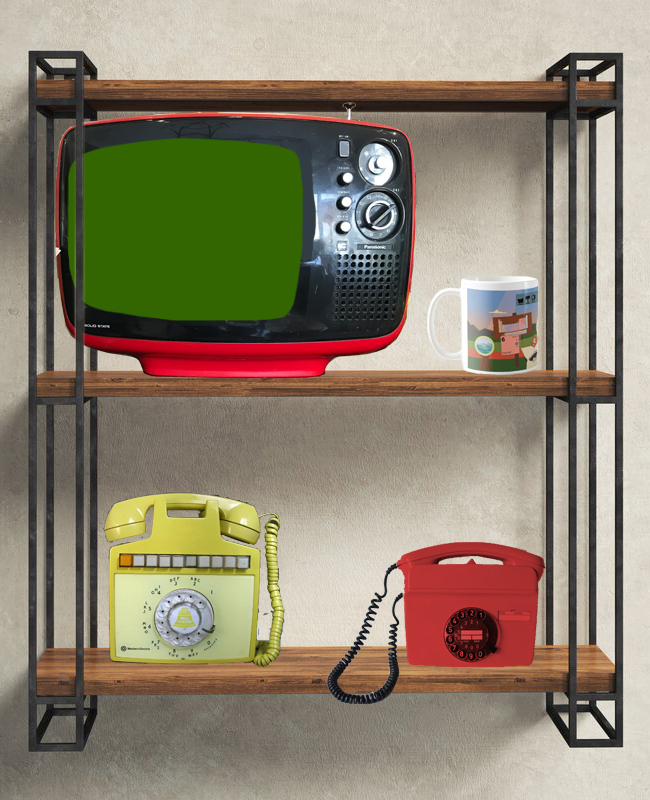
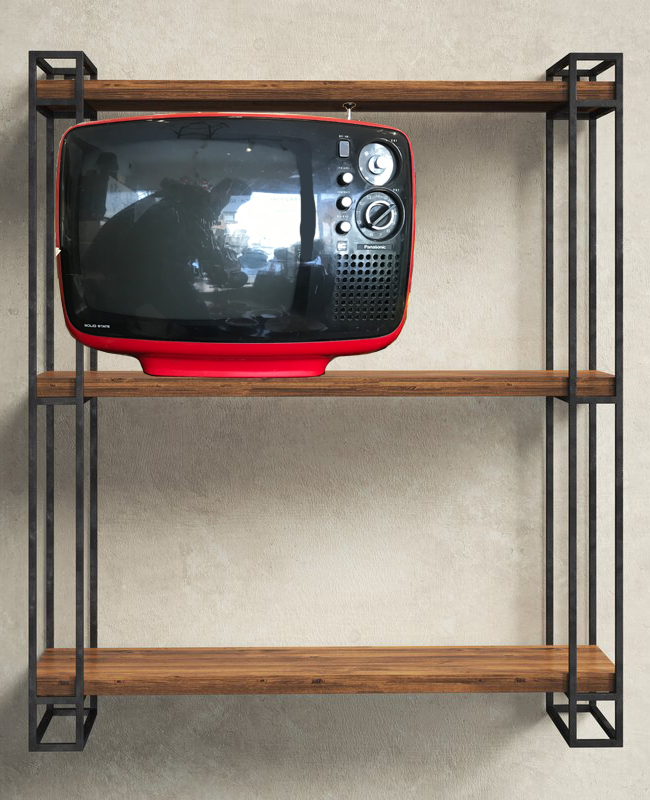
push website build changes

diff --git a/assets/BFTF-Phone/style.css b/assets/BFTF-Phone/style.css
@@ -1,11 +1,11 @@
 body {
   margin: 0;
   width: 100vw;
-  height: calc(100vw*0.63);
+  height: calc(100vw * 0.63);
   display: flex;
   
   
-  background-image: url('assets/phone.png');
+  background-image: url('assets/yellowPhone.png');
   
   background-repeat: no-repeat;
   background-size: contain;
@@ -68,8 +68,8 @@ color: blue; border: dashed blue 0px}
   display: grid;
   grid-template-columns: 12% 12% 12%;
   grid-template-rows: 18% 18% 18% 18%;
-  margin-left: 0 /*move phone*/
-  margin-top: 0;
+  margin-left: -20vw; /*move phone*/
+  margin-top: 5vw;
 
   /*unsures*/
   width: 100%; 
@@ -92,7 +92,7 @@ color: blue; border: dashed blue 0px}
 
 }
 #keypad .key {
-  background-color: transparent;
+  background-color: rgba(255, 255, 240, 0.5);
   box-sizing: border-box;
   position: relative;
   perspective: 800px;
@@ -106,6 +106,7 @@ color: blue; border: dashed blue 0px}
   height: 100%;
   position: relative;
   border: solid green 0px;
+  background-color: rgba(255, 255, 0, 1.0);
 }
 
 
@@ -148,14 +149,16 @@ color: blue; border: dashed blue 0px}
 
 #keypad .key.key-1 .inner {
   background-position: -17px -28px;
-   background-image: url('assets/buttons/1.png');
+   background-image: url('assets/buttons/one.png');
+   
   background-position: center;
   background-repeat: no-repeat;
   background-size: cover; 
+  
 }
 #keypad .key.key-2 .inner {
   background-position: -117px -28px;
-  background-image: url('assets/buttons/2.png');
+  background-image: url('assets/buttons/two.png');
   background-position: center;
   background-repeat: no-repeat;
   background-size: cover; 
@@ -163,56 +166,56 @@ color: blue; border: dashed blue 0px}
 }
 #keypad .key.key-3 .inner {
   background-position: -217px -28px;
-  background-image: url('assets/buttons/3.png');
+  background-image: url('assets/buttons/three.png');
   background-position: center;
   background-repeat: no-repeat;
   background-size: cover; 
 }
 #keypad .key.key-4 .inner {
   background-position: -17px -128px;
-  background-image: url('assets/buttons/4.png');
+  background-image: url('assets/buttons/four.png');
   background-position: center;
   background-repeat: no-repeat;
   background-size: cover; 
 }
 #keypad .key.key-5 .inner {
   background-position: -117px -128px;
-  background-image: url('assets/buttons/5.png');
+  background-image: url('assets/buttons/five.png');
   background-position: center;
   background-repeat: no-repeat;
   background-size: cover; 
 }
 #keypad .key.key-6 .inner {
   background-position: -217px -128px;
-  background-image: url('assets/buttons/6.png');
+  background-image: url('assets/buttons/six.png');
   background-position: center;
   background-repeat: no-repeat;
   background-size: cover; 
 }
 #keypad .key.key-7 .inner {
   background-position: -17px -228px;
-  background-image: url('assets/buttons/7.png');
+  background-image: url('assets/buttons/seven.png');
   background-position: center;
   background-repeat: no-repeat;
   background-size: cover; 
 }
 #keypad .key.key-8 .inner {
   background-position: -117px -228px;
-  background-image: url('assets/buttons/8.png');
+  background-image: url('assets/buttons/eight.png');
   background-position: center;
   background-repeat: no-repeat;
   background-size: cover; 
 }
 #keypad .key.key-9 .inner {
   background-position: -217px -228px;
-  background-image: url('assets/buttons/9.png');
+  background-image: url('assets/buttons/nine.png');
   background-position: center;
   background-repeat: no-repeat;
   background-size: cover; 
 }
 #keypad .key.key-10 .inner {
   background-position: -17px -328px;
-  background-image: url('assets/buttons/ast.png');
+  background-image: url('assets/buttons/asterix.png');
   background-position: center;
   background-repeat: no-repeat;
   background-size: cover; 
@@ -232,14 +235,14 @@ color: blue; border: dashed blue 0px}
 }
 #keypad .key.key-0 .inner {
   background-position: -117px -328px;
-  background-image: url('assets/buttons/0.png');
+  background-image: url('assets/buttons/zero.png');
   background-position: center;
   background-repeat: no-repeat;
   background-size: cover; 
 }
 #keypad .key.key-12 .inner {
   background-position: -217px -328px;
-  background-image: url('assets/buttons/hash.png');
+  background-image: url('assets/buttons/hashtag.png');
   background-position: center;
   background-repeat: no-repeat;
   background-size: cover; 

diff --git a/assets/style.css b/assets/style.css
@@ -14,10 +14,10 @@ body {color: white;}
         /*  vertical  */
 @media only screen and (orientation: portrait) {
   body {
-  background-image: url('images/backgroundHV.jpg'), url('');
+  background-image: url('images/backgroundHVextended.jpg'), url('');
   background-position: center top;
   background-repeat: no-repeat;
-  background-size: 100vw calc(100vw * 1.2);;
+  background-size: 100vw calc(100vw * 2);;
   width: 100vw;
   max-height: 800px;
   }
@@ -28,7 +28,7 @@ body {color: white;}
 
 .insideTVframe {
   position: absolute;
-  background-color: red;
+  background-color: rgba(0, 0, 0, 1.0);
   top: 20.7vw;
   left: 9.5vw;
 border-radius: 36% 7% 7% 22% / 19% 10% 53% 31%;
@@ -41,13 +41,13 @@ height:  calc(18.3vw * 1.5);
     /*  HORIZONTAL  */
 @media only screen and (orientation: landscape) {
   body {
-  background-image: url('images/backgroundHV.jpg'), url('');
+  background-image: url('images/backgroundHVextended.jpg'), url('');
   background-position: center top;
   background-repeat: no-repeat;
  
-  background-size: 100vw calc(100vw * 1.2);
+  background-size: 100vw calc(100vw * 2);
   width: 100vw;
-  height: calc(100vw * 1.2);
+  height: calc(100vw * 2);
   
   }
 
@@ -159,6 +159,7 @@ button {
   cursor: pointer;
   transition-delay: 0,5s;
   outline: none;
+  z-index: 2;
 }
 button:hover {
   background-color: rgba(0,0,255,0.3);
@@ -333,13 +334,15 @@ line-height: 2.2;
             overflow: hidden;
             border:0px solid yellow; 
             background-color: rgba(0,0,0,0.0); 
-            width: 30vw; 
-            height: calc(30vw*0.63); 
-            position: relative; 
-            
+            width: 40vw; 
+            height: calc(40vw*0.63); 
+            position: absolute; 
+            left: 10vw; 
+            top: 78vw; 
             overflow-y: none;
             overflow-x: none;
             cursor: pointer;
+            z-index: 10;
           }
 
 

diff --git a/index.html b/index.html
@@ -35,13 +35,14 @@
   <div class="steam" id="steam-four"></div>  
 </div>
 -->
-
+<img src="assets/images/coffeeCup1.png" style="width: 20vw; height: calc(width * 1.2);
+  height: calc(width * 100); position: absolute; top: 39vw; left: 63vw; z-index: 55;">
 
 <img src="assets/images/shelfFullSize.png" style="width: 100vw; height: calc(width * 1.2);
-  height: calc(width * 100); position: absolute; top: -0.5vw; left: 0vw; z-index: 65;">
+  height: calc(width * 100); position: absolute; top: -0.5vw; left: 0vw; z-index: 1;">
 
 <img src="assets/images/camera.png" style="width: 30vw;
-  height: calc(width * 100); position: absolute; top: -1vw; left: 56vw; z-index: 50;">
+  height: calc(width * 100); position: absolute; top: -1vw; left: 56vw; z-index: 0;">
 
 <img src="assets/images/greenPlant.png" style="width: 30vw;
   height: calc(width * 100); position: absolute; top: 0vw; left: 0vw; z-index: 65;">
@@ -130,17 +131,17 @@ If you want to get a hold of me to offer me a job, call 611 on the phone below, 
             <!--CHAT BOX FLOWXO
             <iframe src="https://fxo.io/m/6ax3am7p" id="flowXOchatbox" style="" allowfullscreen></iframe>
 -->
-<div class="footer">     
+   
 
 <!------------------------------------------------------------------------------------------------------------------->
-            <!--PHONE BOX FLOWXO
+            
             <iframe id="phoneBFTF" src="assets/BFTF-Phone/index.html" style="" scrolling="no" allowfullscreen></iframe>-->
 <!------------------------------------------------------------------------------------------------------------------->
 
 
 
 
-</div>
+
 
 
 

diff --git a/assets/BFTF-Phone/index.html b/assets/BFTF-Phone/index.html
@@ -2,7 +2,7 @@
 <html lang="en" >
 <head>
   <meta charset="UTF-8">
-  <title>A phone to the Future</title>
+  <title>Contact me</title>
   <link rel="stylesheet" href="./style.css">
 
 </head>
